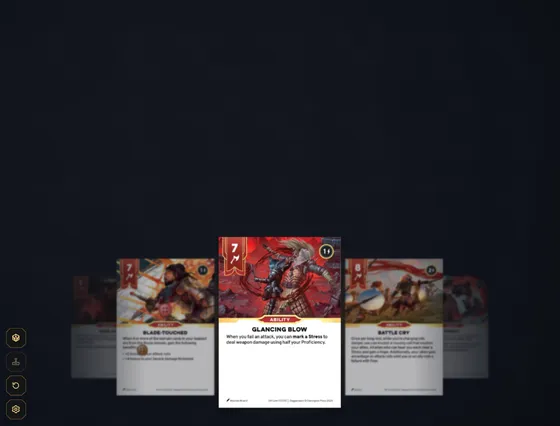
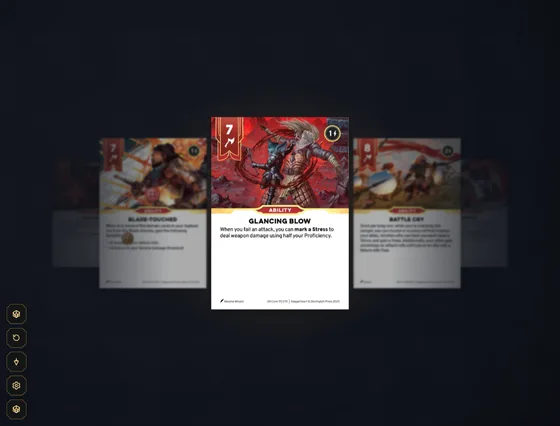
Desktop table: presets laid out again with new pictures (rows on edge bands, hands whole, open felt; wild tables hand-placed); edit frames always show their arrows, link and eye; reset glides a laid-out deck back into its grid; the playground sets the hand out in a neat grid of resting physical card
Session: ebcd960e-095f-4e13-9cd9-8a70b1931631

diff --git a/src/features/character-sheet/table/play-table.tsx b/src/features/character-sheet/table/play-table.tsx
@@ -1406,8 +1406,35 @@ export function PlayTable({ characterId, dice, sortFile, onSortOpen, overlay: ov
     setMimics(() => []);
     diceRef.current?.tidy();
     setGone(new Set());
-    if (spread) setSpread({});
-    else if (copiesRef.current.length) flyBack(copiesRef.current.map((b) => b.uid), () => setCopies([]));
+    if (spread) {
+      // The laid-out deck goes back into its grid, every card of it, gliding from wherever it was (owner, v0.47.15).
+      const from = posesOf(boardRef.current.map((b) => b.uid));
+      livePoses.clear();
+      setSpread({});
+      glide(from);
+    } else if (copiesRef.current.length) flyBack(copiesRef.current.map((b) => b.uid), () => setCopies([]));
+  };
+  /** Where each card is drawn now (table px), to glide it from there once it has moved. */
+  const posesOf = (uids: string[]) => {
+    const at = new Map<string, { x: number; y: number }>();
+    for (const u of uids) {
+      const el = tableRef.current?.querySelector(`[data-board-card="${CSS.escape(u)}"]`) as HTMLElement | null;
+      if (el) at.set(u, { x: el.offsetLeft + el.offsetWidth / 2, y: el.offsetTop + el.offsetHeight / 2 });
+    }
+    return at;
+  };
+  /** Once the cards are drawn where they now belong, slide each one there from where it was (`from`, table px). */
+  const glide = (from: Map<string, { x: number; y: number }>, scale = 1) => {
+    requestAnimationFrame(() => requestAnimationFrame(() => {
+      let i = 0;
+      for (const [u, p] of from) {
+        const el = tableRef.current?.querySelector(`[data-board-card="${CSS.escape(u)}"]`) as HTMLElement | null;
+        if (!el) continue;
+        const dx = p.x - (el.offsetLeft + el.offsetWidth / 2), dy = p.y - (el.offsetTop + el.offsetHeight / 2);
+        if (Math.abs(dx) + Math.abs(dy) < 2 && scale === 1) continue;
+        el.animate([{ translate: `${dx.toFixed(1)}px ${dy.toFixed(1)}px`, scale: String(scale) }, { translate: '0px 0px', scale: '1' }], { duration: 560, delay: i++ * 16, easing: 'cubic-bezier(0.2, 0.8, 0.2, 1)', fill: 'backwards' });
+      }
+    }));
   };
   /** Cards fly back into the hand, shrinking as they go; `done` once they are there. */
   const flyBack = (uids: string[], done: () => void) => {
@@ -1431,7 +1458,6 @@ export function PlayTable({ characterId, dice, sortFile, onSortOpen, overlay: ov
    * dice. The Deck of Many Things stays, stock and all. Pressed again, the cards go back into the hand.
    */
   const togglePlayground = () => {
-    const eng = diceRef.current?.engine();
     if (playground) {
       cue('playground:off', 'panelClose');
       // Leaving resets the whole table, not just the cards (owner, v0.47.14).
@@ -1443,35 +1469,56 @@ export function PlayTable({ characterId, dice, sortFile, onSortOpen, overlay: ov
     clearSelection();
     setSettings(false);
     setPeek(false);
-    const w = Math.min(maxW(tableH), 128), h = (w * FORGED_H) / FORGED_W;
-    const cx = (v: number) => Math.min(tableW - pad - w / 2, Math.max(pad + w / 2, v)), cy = (v: number) => Math.min(tableH - pad - h / 2, Math.max(pad + h / 2, v));
+    // Laid out in a grid on the open table, as large as the whole deck allows, each card gliding there from its place
+    // in the hand and resting there as a physical card (owner, v0.47.15: not flung about).
     const n = Math.max(1, deck.length);
-    // Evenly along the hand, a little up and down, so they leave as a spread, not a pile.
+    const gap = 14;
+    // The whole table is free (the hand has let go), less the corner buttons, the rows of tokens above, and any
+    // control die standing in the way: the grid gives way on that die's side.
+    let L = play.left + 70, R = play.right - 30;
+    const Tp = pad + 160, B = tableH - pad - 10;
+    const eng = diceRef.current?.engine();
+    for (const k of eng?.keys() ?? []) {
+      if (/^(free|roll|tok|card|src|fx):/.test(k)) continue;
+      const st = eng?.state(k);
+      if (!st || st.y < Tp - 50 || st.y > B + 50 || st.x < L - 60 || st.x > R + 60) continue;
+      if (st.x < (L + R) / 2) L = Math.max(L, st.x + 70); else R = Math.min(R, st.x - 70);
+    }
+    let w = Math.min(maxW(tableH), 128), cols = 1, rows = 1;
+    for (; w > MIN_W; w -= 4) {
+      cols = Math.max(1, Math.floor((R - L + gap) / (w + gap)));
+      rows = Math.ceil(n / cols);
+      if (rows * ((w * FORGED_H) / FORGED_W + gap) - gap <= B - Tp) break;
+    }
+    cols = Math.max(1, Math.floor((R - L + gap) / (w + gap)));
+    rows = Math.ceil(n / cols);
+    const h = (w * FORGED_H) / FORGED_W;
+    // Too many to fit even small: the rows overlap evenly, like a spread hand.
+    const stepY = rows > 1 ? Math.min(h + gap, (B - Tp - h) / (rows - 1)) : 0;
+    const top = Tp + h / 2 + Math.max(0, (B - Tp - h - stepY * (rows - 1)) / 2);
+    const slots = new Map<string, { x: number; y: number }>();
     const cards: BoardCard[] = deck.map((c, i) => {
-      const x = hand.left + ((i + 0.5) / n) * (hand.right - hand.left);
-      const y = (hand.top + hand.bottom) / 2 + (i % 2 ? -0.12 : 0.12) * (hand.bottom - hand.top);
-      return { uid: `pg:${c.id}`, id: c.id, fx: cx(x) / tableW, fy: cy(y) / tableH, w, rot: Math.round((Math.random() - 0.5) * 16), phys: true };
+      const r = Math.floor(i / cols), inRow = r === rows - 1 ? n - r * cols : cols;
+      const x = (L + R) / 2 + ((i % cols) - (inRow - 1) / 2) * (w + gap);
+      const y = top + r * stepY;
+      slots.set(`pg:${c.id}`, { x: hand.left + ((i + 0.5) / n) * (hand.right - hand.left), y: (hand.top + hand.bottom) / 2 });
+      return { uid: `pg:${c.id}`, id: c.id, fx: x / tableW, fy: y / tableH, w, rot: 0, phys: true };
     });
     setPgCards(cards);
     setPlayground(true);
-    // Up into the open table, spreading as they knock into one another.
-    const up = handPos === 'top' ? 1 : -1;
-    cards.forEach((b, i) => {
-      let tries = 0;
-      // Fanned out by where each sat in the hand: the left ones fly left, the right ones right, all of them up.
-      const side = (n > 1 ? i / (n - 1) - 0.5 : 0) * 2200 + (Math.random() - 0.5) * 400;
-      const go = () => { if (!diceRef.current?.engine()?.throwCard(`card:${b.uid}`, side, up * (900 + Math.random() * 1300), (Math.random() - 0.5) * 6) && ++tries < 25) setTimeout(go, 30); };
-      setTimeout(go, 40 + i * 14);
-    });
-    // The supply lets go of one of everything as it goes.
-    const from = eng?.state('src:die') ?? eng?.state('src:mat') ?? { x: tableW / 2, y: (openTop + openBottom) / 2 };
+    glide(slots, 0.7);
+    // One of everything, set out in two neat rows where the supply stood, above the cards (owner, v0.47.15).
     const colours = [...TOKEN_COLORS].sort(() => Math.random() - 0.5).slice(0, 3);
     const toks: TokenInfo[] = [
       ...DIE_TYPES.map((t): TokenInfo => ({ kind: 'die', dieType: t, dieValue: 1, dieValue2: t === 'duality' ? 1 : undefined })),
       { kind: 'wood' }, { kind: 'bone' }, { kind: 'iron' },
       ...colours.map((c): TokenInfo => ({ kind: 'color', color: c })),
     ];
-    spill(toks.map((t) => ({ key: '', token: t, x: from.x, y: from.y })), from.x, from.y);
+    const per = Math.ceil(toks.length / 2);
+    // The Deck of Many Things stays where it stood: the rows start past it.
+    const domat = eng?.state(DOMAT_KEY);
+    const x0 = Math.max(play.left + 70, domat && domat.y < pad + 140 ? domat.x + 70 : 0);
+    setLoose([...looseRef.current, ...toks.map((t, i) => ({ key: `free:${newTokenId()}${i}`, token: t, x: x0 + (i % per) * 62, y: pad + 44 + Math.floor(i / per) * 62 }))]);
   };
   const looseCount = loose.length + drawn.length + (spread ? 0 : copies.length);
 

diff --git a/src/features/character-sheet/table/deck-look.ts b/src/features/character-sheet/table/deck-look.ts
@@ -497,28 +497,32 @@ export function cleanLook(raw: unknown): DeckLook {
  */
 export interface TablePreset { id: string; name: string; who: string; look: DeckLook }
 const T = (look: Partial<DeckLook>): DeckLook => cleanLook({ ...DEFAULT_LOOK, ...look });
+/*
+ * Laid out by hand (owner, v0.47.15: "pretty ugly"): every row of pieces sits on a band along the top or the bottom
+ * edge, lined up left, centre and right, the hand is whole on screen, and the middle of the felt stays open.
+ */
 export const TABLE_PRESETS: TablePreset[] = [
   {
-    id: 'story', name: 'Storyteller', who: 'One card at a time and nothing in the way. Controls stay a right click off, the felt is open for the scene.',
-    look: T({ size: 260, side: 2, shrink: 0.2, dim: 0.3, blur: 1.4, glow: 0.55, edge: 'fade', edgeWidth: 26, lift: 10, hoverLift: 4, hoverZoom: 1.02, switchFx: 'fade', endDots: false,
-      areaMode: 'free', areaPos: 'bottom', areaSize: 46, divider: 'none', walls: 'none', controls: 'hidden', tokenTray: false, numberDice: 'stone', controlDice: 'ivory', catX: 0.06, catY: 0.26 }),
+    id: 'story', name: 'Storyteller', who: 'One card at a time, centre stage, and nothing in the way. Controls stay a right click off, the felt is open for the scene.',
+    look: T({ size: 290, side: 2, shrink: 0.22, dim: 0.34, blur: 1.6, glow: 0.5, edge: 'fade', edgeWidth: 30, rowY: 0.5, hoverLift: 4, hoverZoom: 1.02, switchFx: 'fade', endDots: false,
+      areaMode: 'free', areaPos: 'middle', areaSize: 64, divider: 'none', walls: 'none', controls: 'hidden', tokenTray: false, numberDice: 'stone', controlDice: 'ivory' }),
   },
   {
-    id: 'goblin', name: 'Dice goblin', who: 'Rolls all the time and plays with the dice between turns. A tight hand, a huge table, the supply down the left side.',
-    look: T({ autoReturn: false, size: 150, spacing: -0.82, pack: 0.2, shrink: 0.02, dim: 0.08, side: 10, shadow: 0.8, edgeWidth: 8, rowY: 0.55,
-      areaMode: 'tray', areaPos: 'bottom', areaSize: 26, divider: 'shade', walls: 'brass', numberDice: 'metal', controlDice: 'gilded', controls: 'dice', tokenTray: true,
-      supDir: 'column', supX: 0.07, supY: 0.36, ctlDir: 'row', ctlX: 0.84, ctlY: 0.07, catX: 0.93, catY: 0.62 }),
+    id: 'goblin', name: 'Dice goblin', who: 'Rolls all the time and plays with the dice between turns. Everything in one row along the top, a mimic for a dice box, the whole felt to throw on.',
+    look: T({ autoReturn: false, diceChest: true, chest: 'fang', size: 170, spacing: -0.55, pack: 0.12, shrink: 0.03, arc: 30, tilt: 4, side: 6, dim: 0.06, shadow: 0.8, edge: 'none', rowY: 0.55, hoverLift: 26, hoverZoom: 1.08,
+      areaMode: 'tray', areaPos: 'bottom', areaSize: 30, divider: 'shade', walls: 'brass', numberDice: 'metal', controlDice: 'gilded', controls: 'dice', ctlMotion: 'hop', tokenTray: true,
+      supDir: 'row', supX: 0.2, supY: 0.1, catX: 0.5, catY: 0.1, ctlDir: 'row', ctlX: 0.82, ctlY: 0.09 }),
   },
   {
-    id: 'tactician', name: 'Tactician', who: 'Wants every card in view at once. No carousel: the whole deck lies on the table, the controls stand down the right edge.',
+    id: 'tactician', name: 'Tactician', who: 'Wants every card in view at once. No carousel: the whole deck lies on the table, every piece in one band along the bottom.',
     look: T({ handMode: 'spread', size: 150, walls: 'stone', numberDice: 'stone', controlDice: 'obsidian', controls: 'dice', ctlMotion: 'hop', tokenTray: true,
-      ctlDir: 'column', ctlX: 0.93, ctlY: 0.3, supDir: 'row', supX: 0.2, supY: 0.91, catX: 0.93, catY: 0.72 }),
+      supDir: 'row', supX: 0.25, supY: 0.92, ctlDir: 'row', ctlX: 0.72, ctlY: 0.92, catX: 0.93, catY: 0.86 }),
   },
   {
-    id: 'archivist', name: 'Archivist', who: 'Curates big decks. The whole deck reads across the top, plain buttons, and the table below stays clear for sorting.',
-    look: T({ size: 116, side: 30, spacing: 0.04, pack: 0, shrink: 0, dim: 0, edge: 'none', shadow: 0.35, scroll: 'wheel', wheel: 3, switchFx: 'deal', hoverLift: 18, hoverZoom: 1.22,
-      areaMode: 'tray', areaPos: 'top', areaSize: 27, divider: 'line', walls: 'line', controls: 'buttons', numberDice: 'resin', controlDice: 'obsidian', tokenTray: true,
-      supDir: 'row', supX: 0.18, supY: 0.92, ctlDir: 'row', ctlX: 0.7, ctlY: 0.36, catX: 0.92, catY: 0.9 }),
+    id: 'archivist', name: 'Archivist', who: 'Curates big decks. The whole deck reads across the top, plain buttons and the supply along the bottom, the table between them clear for sorting.',
+    look: T({ size: 124, side: 30, spacing: 0.05, pack: 0, shrink: 0, dim: 0, edge: 'fade', edgeWidth: 10, shadow: 0.35, scroll: 'wheel', wheel: 3, switchFx: 'deal', hoverLift: 18, hoverZoom: 1.22, rowY: 0.52,
+      areaMode: 'tray', areaPos: 'top', areaSize: 30, divider: 'line', walls: 'line', controls: 'buttons', numberDice: 'resin', controlDice: 'obsidian', tokenTray: true,
+      supDir: 'row', supX: 0.25, supY: 0.91, ctlDir: 'row', ctlX: 0.76, ctlY: 0.93 }),
   },
   {
     id: 'showman', name: 'Showman', who: 'Plays for the table (or the stream). A fanned hand in the middle of the felt, gold dice, deals that land with a flourish.',
@@ -527,12 +531,24 @@ export const TABLE_PRESETS: TablePreset[] = [
       supDir: 'row', supX: 0.17, supY: 0.08, ctlDir: 'row', ctlX: 0.83, ctlY: 0.08, catX: 0.5, catY: 0.9 }),
   },
   {
-    id: 'duelist', name: 'Duelist', who: 'In the thick of a fight: cards on a shelf across the middle, dice and tokens in reach above and below it, nothing to hunt for.',
+    id: 'duelist', name: 'Duelist', who: 'In the thick of a fight: cards on a shelf across the middle, the deck die above it, dice and tokens in reach below it.',
     look: T({ size: 200, spacing: -0.42, pack: 0.22, shrink: 0.03, turn: 58, perspective: 1200, side: 7, dim: 0.14, edge: 'darken', edgeWidth: 18, flick: 1.6, switchFx: 'slide',
-      areaMode: 'tray', areaPos: 'middle', areaSize: 34, divider: 'line', walls: 'stone', numberDice: 'resin', controlDice: 'obsidian', controls: 'dice', tokenTray: true,
-      supDir: 'row', supX: 0.2, supY: 0.9, ctlDir: 'row', ctlX: 0.82, ctlY: 0.9, catX: 0.07, catY: 0.12 }),
+      areaMode: 'tray', areaPos: 'middle', areaSize: 36, divider: 'line', walls: 'stone', numberDice: 'resin', controlDice: 'obsidian', controls: 'dice', tokenTray: true,
+      supDir: 'row', supX: 0.25, supY: 0.88, ctlDir: 'row', ctlX: 0.82, ctlY: 0.88, catX: 0.5, catY: 0.13 }),
   },
 ];
+
+/**
+ * The four tables drawn at random and kept (v0.47.11). Their hands, colours and motion are the draw's own; where the
+ * pieces lie was set by hand (v0.47.15), on the same bands as the made tables.
+ */
+const WILD_LAYOUT: Partial<DeckLook>[] = [
+  { supDir: 'row', supX: 0.2, supY: 0.1, catX: 0.5, catY: 0.11, ctlDir: 'row', ctlX: 0.82, ctlY: 0.09 },
+  { tokenTray: true, supDir: 'row', supX: 0.25, supY: 0.88, catX: 0.5, catY: 0.87, ctlDir: 'row', ctlX: 0.82, ctlY: 0.88 },
+  { ctlDir: 'row', ctlX: 0.5, ctlY: 0.92 },
+  { supDir: 'row', supX: 0.2, supY: 0.1, ctlDir: 'row', ctlX: 0.5, ctlY: 0.1, catX: 0.5, catY: 0.88 },
+];
+export const WILD_TABLES = randomTables(4, 47003).map((look, i) => cleanLook({ ...look, ...WILD_LAYOUT[i] }));
 
 const CODE_PREFIX = 'RK1:';
 

diff --git a/src/features/character-sheet/table/look-panel.tsx b/src/features/character-sheet/table/look-panel.tsx
@@ -10,7 +10,7 @@
 import { useEffect, useRef, useState, useSyncExternalStore } from 'react';
 import { createPortal } from 'react-dom';
 
-import { BUILTIN_LOOKS, type DeckLook, DEFAULT_LOOK, encodeLook, type LookControl, type LookGroup, LOOK_PAGES, PLACE_KEYS, randomTables, readTableFile, TABLE_PRESETS, tableFile, wearsHand, withHand } from './deck-look';
+import { BUILTIN_LOOKS, type DeckLook, DEFAULT_LOOK, encodeLook, type LookControl, type LookGroup, LOOK_PAGES, PLACE_KEYS, randomTables, readTableFile, TABLE_PRESETS, tableFile, wearsHand, WILD_TABLES as WILD_LOOKS, withHand } from './deck-look';
 import { loadSavedLooks, type SavedLook, saveSavedLooks } from './table-store';
 import { chamferClip, Glyph, T, TButton } from './table-ui';
 import { cue, forgetUltrakill, keepUltrakillFolder, onSoundsChange, setSoundScheme, soundScheme, ULTRAKILL_FILES, ultrakillLoaded } from './table-sound';
@@ -18,7 +18,7 @@ import { cue, forgetUltrakill, keepUltrakillFolder, onSoundsChange, setSoundSche
 const PAGES = [{ id: 'presets', title: 'Presets' }, ...LOOK_PAGES.map((p) => ({ id: p.id, title: p.title }))];
 
 /** The four tables drawn at random and kept (v0.47.3): seeded, so they are the same for everyone until tuned. */
-export const WILD_TABLES = randomTables(4, 47003).map((look, i) => ({ id: `wild${i + 1}`, name: ['Wild one', 'Wild two', 'Wild three', 'Wild four'][i], who: 'Drawn at random and kept because it worked. Not tuned by hand yet.', look }));
+export const WILD_TABLES = WILD_LOOKS.map((look, i) => ({ id: `wild${i + 1}`, name: ['Wild one', 'Wild two', 'Wild three', 'Wild four'][i], who: 'Drawn at random and kept because it worked; its pieces placed by hand.', look }));
 
 export function LookPanel({ look, onChange, onClose, onClearTable, boardCount, pieceCount, box }: { look: DeckLook; onChange: (l: DeckLook) => void; onClose: () => void; onClearTable: () => void; boardCount: number; pieceCount: number; box: { left: number; top: number; width: number; height: number } }) {
   const [page, setPage] = useState('presets');

diff --git a/src/features/character-sheet/table/table-dice.tsx b/src/features/character-sheet/table/table-dice.tsx
@@ -1627,7 +1627,7 @@ function GroupHandle({ box, label, dir, onMove, onFlip, chain, onChain, hidden, 
           </button>
         ) : null}
         {/* Split a row into pieces placed one by one, or join a piece back into its row (owner, v0.47.11). */}
-        {chain && onChain && (hover || chain === 'join') ? (
+        {chain && onChain ? (
           <button type="button" title={chain === 'split' ? 'Split the row: place each piece on its own' : 'Join these back into their row'} aria-label={chain === 'split' ? `Split the ${label}` : `Join ${label} back into its row`}
             onPointerDown={(e) => e.stopPropagation()} onClick={() => { cue('ui:confirm', 'cardSelect', { volume: 0.5 }); onChain(); }}
             style={{ all: 'unset', cursor: 'pointer', display: 'flex', padding: 2, background: T.panel, border: `1px solid ${T.goldSoft}` }}>
@@ -1637,7 +1637,7 @@ function GroupHandle({ box, label, dir, onMove, onFlip, chain, onChain, hidden, 
           </button>
         ) : null}
         {/* Hidden from play, seen only here while editing (owner, v0.47.14). */}
-        {onHide && (hover || hidden) ? (
+        {onHide ? (
           <button type="button" title={hidden ? 'Show on the table' : 'Hide from the table (still shown while editing)'} aria-label={hidden ? `Show the ${label}` : `Hide the ${label}`} aria-pressed={hidden}
             onPointerDown={(e) => e.stopPropagation()} onClick={() => { cue('ui:toggle', hidden ? 'panelOpen' : 'panelClose', { volume: 0.5 }); onHide(); }}
             style={{ all: 'unset', cursor: 'pointer', display: 'flex', padding: 2, background: hidden ? 'rgba(200,27,24,0.35)' : T.panel, border: `1px solid ${hidden ? T.red : T.goldSoft}` }}>

diff --git a/DESIGN.md b/DESIGN.md
@@ -199,3 +199,13 @@ sheet. Red carries identity, gold is the detail, near-black/ivory are the ground
   whole table. Nothing still burning settles onto a card. The preset picker has arrows either side for the next or
   previous preset. In edit mode each row, and each piece split off one, has an eye: hidden, it leaves the table and
   shows (dimmed frame, red eye) only while editing (`DeckLook.hidden`).
+- v0.47.15: ULTRAKILL files are levelled when decoded (`normalGain`). The edit frames' arrows, link and eye always
+  show, so nothing moves under the pointer. The presets were laid out again: every row of pieces sits on a band
+  along the top or bottom edge (left, centre, right, clear of the corner buttons), every hand is whole on screen,
+  the middle of the felt stays open. Storyteller is one card centre stage; Dice goblin has everything along the top
+  and a mimic for a dice box; Tactician and Archivist keep their pieces along the bottom; Duelist has the deck die
+  above the shelf and the rest below. The four wild tables keep their drawn looks with hand-placed pieces
+  (`WILD_LAYOUT`). Every preset picture was retaken. Reset with the deck laid out (Tactician) glides every card of it back into its
+  grid, physical ones too. Entering the playground no longer flings the hand: the cards glide into a centred grid on
+  the whole table (sized to fit, clear of the corner buttons and any control die) and rest there as physical cards,
+  with one of every die and token set out in two rows above them, past the Deck of Many Things.
